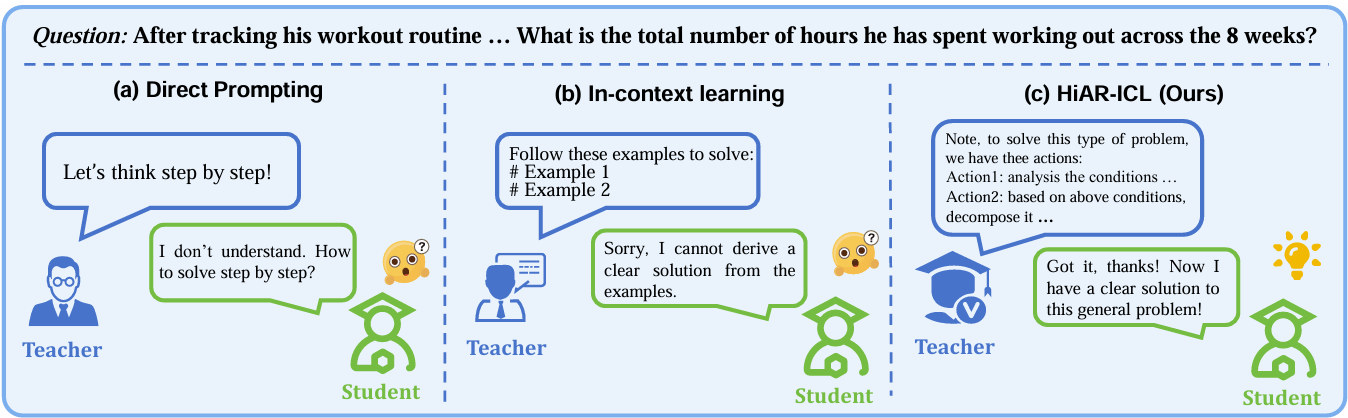
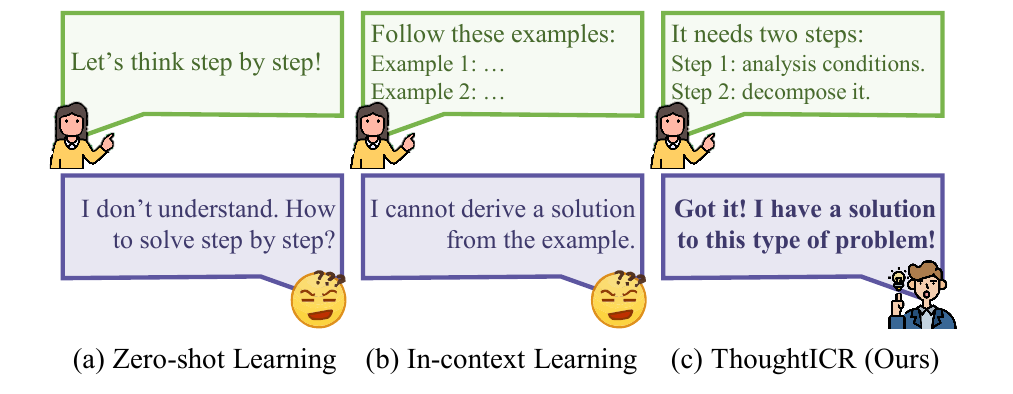
Update README for ACL 2026

diff --git a/README.md b/README.md
@@ -1,134 +1,173 @@
 <h1 align="center">
 <br>
-HiAR-ICL
+ThoughtICR
 </h1>
 
 <p align="center">
-🤗 <a href="https://huggingface.co/papers/2411.18478" target="_blank">[Daily Paper]</a> &nbsp;&nbsp;&nbsp;📃 <a href="https://arxiv.org/pdf/2411.18478" target="_blank">[Arxiv]</a> &nbsp;&nbsp;&nbsp;🏠 <a href="https://jinyangwu.github.io/hiar-icl" target="_blank">[Homepage]</a></p>
+📚 <a href="https://aclanthology.org/2026.acl-long.135/" target="_blank">[ACL 2026]</a> &nbsp;&nbsp;&nbsp;📃 <a href="https://aclanthology.org/2026.acl-long.135.pdf" target="_blank">[Paper]</a> &nbsp;&nbsp;&nbsp;📝 <a href="https://arxiv.org/abs/2411.18478" target="_blank">[arXiv]</a> &nbsp;&nbsp;&nbsp;💻 <a href="https://github.com/jinyangwu/ThoughtICR" target="_blank">[Code]</a>
+</p>
 
-This repository is the official implementation of "[Beyond Examples: High-level Automated Reasoning Paradigm in In-Context Learning via MCTS](https://arxiv.org/abs/2411.18478)".
+This repository is the official implementation of **[Beyond Examples: Towards Automated Thought-level In-Context Reasoning for Large Language Models](https://aclanthology.org/2026.acl-long.135/)**, accepted to **ACL 2026 Long Papers**.
 
-If you have any questions ❓ or are interested in collaboration 🤝, please feel free to contact me at 
+If you have any questions ❓ or are interested in collaboration 🤝, please feel free to contact me at
 [email redacted].
 
-## Contents
-- [Introduction](#Introduction)
-- [Requirements](#Requirements)
-- [Usage](#Usage)
-- [Acknowledgement](#Acknowledgement)
-- [Citation](#Citation)
+## News
 
+- **ACL 2026**: ThoughtICR was accepted to the 64th Annual Meeting of the Association for Computational Linguistics (Long Papers).
+
+## Contents
+
+- [Introduction](#introduction)
+- [Requirements](#requirements)
+- [Usage](#usage)
+- [Acknowledgement](#acknowledgement)
+- [Citation](#citation)
 
 ## Introduction
 
-We introduces **HiAR-ICL**, a **Hi**gh-level **A**utomated **R**easoning paradigm in **ICL** to enhance the complex reasoning capabilities of large language models. Unlike traditional in-context learning, HiAR-ICL shifts the focus from example-based analogical learning to abstract thought patterns.
+We introduce **ThoughtICR**, an automated **Thought**-level **I**n-**C**ontext **R**easoning paradigm for large language models. ThoughtICR rethinks the role of context in in-context learning: instead of asking models to imitate surface-level examples, it provides explicit, reusable, and guidance-oriented thought patterns for complex reasoning.
 
 <p align="center">
   <img src="assets/Figure1.png">
     <br>
-    <em>Figure 1: Schematic comparison between HiAR-ICL and traditional zero-shot and few-shot in-context learning methods using a teacher-student paradigm.</em>
+    <em>Figure 1: Solution comparison. Zero-shot learning relies on generic instructions, in-context learning depends on carefully selected demonstrations, and ThoughtICR provides high-level reasoning patterns for robust problem solving.</em>
 </p>
 
+ThoughtICR first defines five atomic reasoning actions: **System Analysis (SA)**, **One-Step Thought (OST)**, **Chain-of-Thought (CoT)**, **Divide and Conquer (DC)**, and **Self-Reflection and Refinement (SRR)**. Based on these actions, it uses Monte Carlo Tree Search (MCTS) on small-scale seed data to automatically derive high-level thought patterns and encapsulate them as structured thought cards. During inference, ThoughtICR dynamically selects appropriate thought cards according to target problem attributes, guiding the model through adaptive reasoning and verification.
 
-Our approach begins by defining five atomic reasoning actions, upon which we employ Monte Carlo Tree Search to systematically construct high-level reasoning patterns. During inference, HiAR-ICL dynamically selects appropriate reasoning patterns based on problem attributes, providing explicit guidance for the model’s reasoning process.
+Specifically, **ThoughtICR** consists of two main components:
 
-Specifically, **HiAR-ICL** consists of two main components:
-- *MCTS-powered Thought Card Construction*: Leverage MCTS to systematically construct high level thought cards, which effectively guides subsequent problem-solving.
-- *Adaptive Reasoning and Verification*: Dynamically select and execute optimal reasoning patterns based on the problem's cognitive complexity, followed by solution verification.
+- *Thought Card Construction (Offline)*: Leverage MCTS to automatically construct high-level thought cards from seed data, providing explicit guidance for subsequent inference.
+- *Adaptive Reasoning and Verification (Online)*: Dynamically select optimal thought cards by problem attributes, guide model reasoning with the selected patterns, and verify candidate solutions.
 
-The flowchart of our method HiAR-ICL is shown below:
+The overall framework is shown below:
+
 <p align="center">
   <img src="assets/Figure2.png">
     <br>
-    <em>Figure 2: Flowchart of our method HiAR-ICL. This framework consists of two main parts: (1) MCTS-Powered Thought Card Construction; and (2) Adaptive Reasoning and Verification.</em>
+    <em>Figure 2: Flowchart of ThoughtICR. The framework consists of two main parts: (1) Thought Card Construction (Offline); and (2) Adaptive Reasoning and Verification (Online).</em>
 </p>
 
+Extensive experiments across **nine benchmarks** and **seven reasoning domains** show that ThoughtICR improves performance across different model sizes and generalizes effectively from mathematical reasoning to agentic reasoning. With only small-scale seed data, ThoughtICR achieves **80.6%** accuracy on MATH and **62.5%** on AMC, surpassing GPT-4o's **77.2%** and **57.5%**, respectively. Compared with leading test-time scaling methods, ThoughtICR also reduces computational cost by over **10x**.
 
 ## Requirements
 
 We recommend using conda for environment management and executing the code on an A100 80G GPU equipped with CUDA 12.4.
 
-1. Create a Python environment with python 3.10: 
+1. Create a Python environment with python 3.10:
+
 ```
 conda create -n hiaricl python==3.10
 conda activate hiaricl
 ```
 
 2. Install requirements
+
 ```
 pip install --upgrade pip
 pip install -r requirements.txt
 ```
 
-
 ## Usage
->  HiAR-ICL consists of two steps, and our released code implements an efficient parallel tree search. *Note that, to ensure fair comparison with other methods such as rStar, the time cost reported in our paper corresponds to the non-parallelized version, following the same measurement protocol adopted in previous works.*
-In practical applications, however, employing the parallel implementation provided in this repository can lead to substantially improved efficiency.
+
+> ThoughtICR consists of two steps, and our released code implements an efficient parallel tree search. To ensure fair comparison with methods such as rStar, the time cost reported in our paper corresponds to the non-parallelized version, following the same measurement protocol adopted in previous works. In practical applications, however, the parallel implementation provided in this repository can lead to substantially improved efficiency.
 
 ### Step 1: Construct high-level thought cards via MCTS
-Using a small seed dataset, we derive reasoning paths (Phase 1) and distill them into multiple thought cards (Phase 2). These cards serve as prior insights for testing stage, facilitating efficient adaptive reasoning.
+
+Using a small seed dataset, ThoughtICR derives reasoning paths (Phase 1) and distills them into thought cards (Phase 2). These cards serve as prior reasoning guidance for the testing stage, enabling efficient adaptive reasoning.
 
 #### *Phase 1: Acquire reasoning paths for seed data*
-You may choose to use the following command to acquire reasoning paths for each question in seed dataset, which is guided by MCTS. To achieve this, you should first obtain a seed dataset by randomly sampling from a single dataset or by combining multiple datasets, such as in a multi-task system.
+
+You may choose to use the following command to acquire reasoning paths for each question in the seed dataset, guided by MCTS. Before running it, prepare a seed dataset by randomly sampling from a single dataset or by combining multiple datasets, such as in a multi-task system.
+
 ```bash
 bash scripts/generate_paths.sh
 ```
 
 The script `generate_paths.sh` includes several configurable parameters:
+
 - `--dataset_name`: Name of the dataset (e.g. MATH).
 - `--test_json_filename`: Filename for the seed data (default: train_all).
 - `--model_ckpt`: Path to the model checkpoint (e.g. meta-llama/Meta-Llama-3-8B-Instruct).
 - `--num_rollouts`: Number of rollouts (default: 8).
 
->  ⚠️ Make sure to adjust these parameters according to your requirements. Note that if the vllm server fails to start, you can remove 'nohup' and run it in the foreground for debugging errors. Based on our experimental experience, the most likely causes are port errors or incorrect MODEL_NAME paths. Moreover, if the vllm server starts successfully but you encounter connection errors when running the generate file, the port in models/OpenAI_API.py might not match the port used when starting vllm.
-
+> ⚠️ Make sure to adjust these parameters according to your requirements. If the vLLM server fails to start, you can remove `nohup` and run it in the foreground for debugging. Based on our experimental experience, the most likely causes are port errors or incorrect `MODEL_NAME` paths. Moreover, if the vLLM server starts successfully but you encounter connection errors when running the generate file, the port in `models/OpenAI_API.py` might not match the port used when starting vLLM.
 
 #### *Phase 2: Distill paths into thought cards*
+
 After executing MCTS, we obtain a tree structure for each seed dataset question, yielding multiple valid reasoning paths. Subsequently, we distill thought cards based on the proposed metrics, including subquestion count, problem condition complexity, and semantic similarity.
+
 ```bash
 CUDA_VISIBLE_DEVICES="0" python distill.py
 ```
 
-
 ### Step 2: Adaptive Reasoning Pattern Selection
+
 Note that in the previous step implemented in ```distill.py```, we have pre-matched the optimal five cards for each question in the test set. Therefore, during the testing phase, these pre-matched cards can be directly utilized. Alternatively, metric calculation and card matching can also be performed during the MCTS testing phase.
 
 #### *Reasoning*
-Using selected thought cards as templates, our method maintains the benefits of tree-structured reasoning without extensive node expansion. By following the specified action sequences on thought cards (e.g., SA → OST → CoT), the LLM decomposes the reasoning process into a series of sequential steps, generating multiple valid candidate solutions for the test question. Each step corresponds to a distinct atomic action, thus ensuring structured and systematic reasoning throughout the inference process.
+
+Using selected thought cards as templates, ThoughtICR maintains the benefits of tree-structured reasoning without extensive node expansion. By following the specified action sequences on thought cards (e.g., SA → OST → CoT), the LLM decomposes the reasoning process into a series of sequential steps, generating multiple valid candidate solutions for the test question. Each step corresponds to a distinct atomic action, ensuring structured and systematic reasoning throughout inference.
+
 ```bash
 bash scripts/generate_test.sh
 ```
 
 The script `generate_test.sh` includes several configurable parameters:
+
 - `--dataset_name`: Name of the dataset (e.g. MATH).
 - `--test_json_filename`: Filename for the seed data (default: test_all).
 - `--model_ckpt`: Path to the model checkpoint.
 - `--attribute_type`: Type of cognitive complexity (e.g. condition).
 
->  ⚠️ Make sure to adjust these parameters according to your requirements.
+> ⚠️ Make sure to adjust these parameters according to your requirements.
 
 #### *Verification*
-Identifying the most accurate reasoning trajectory among multiple candidate solutions represents a critical challenge. We investigate three verification methods: process-supervision, outcome-supervision, and self-consistency. We use process-supervision+self-consistency verification by default.
+
+Identifying the most accurate reasoning trajectory among multiple candidate solutions represents a critical challenge. We investigate three verification methods: process supervision, outcome supervision, and self-consistency. We use process supervision with self-consistency verification by default.
+
 ```bash
 CUDA_VISIBLE_DEVICES="0" python verification.py --type consistency --score_type product --k 0.95
 ```
+
 You can adjust the corresponding verification methods according to your requirements.
 
-
 ## Acknowledgement
+
 - [rStar](https://github.com/zhentingqi/rStar): We start our codebase from rStar.
 - [RLHFlow-PRM-Mistral-8B](https://huggingface.co/RLHFlow/Llama3.1-8B-PRM-Mistral-Data): We utilize this process reward model by default.
-- [vllm](https://github.com/vllm-project/vllm): We adopt this fantastic framework.
-
+- [vLLM](https://github.com/vllm-project/vllm): We adopt this fantastic framework.
 
 ## Citation
-If you find this repo useful for your research, please consider citing the paper
-```
-@article{wu2024beyond,
-  title={Beyond examples: High-level automated reasoning paradigm in in-context learning via mcts},
-  author={Wu, Jinyang and Feng, Mingkuan and Zhang, Shuai and Che, Feihu and Wen, Zengqi and Tao, Jianhua},
-  journal={arXiv preprint arXiv:2411.18478},
-  year={2024}
+
+If you find this repo useful for your research, please consider citing our paper:
+
+```bibtex
+@inproceedings{wu-etal-2026-beyond-examples,
+    title = "Beyond Examples: Towards Automated Thought-level In-Context Reasoning for Large Language Models",
+    author = "Wu, Jinyang  and
+      Feng, Mingkuan  and
+      Zhang, Shuai  and
+      Che, Feihu  and
+      Wen, Zhengqi  and
+      Liao, Chonghua  and
+      Yang, Ling  and
+      Luo, Haoran  and
+      Lian, Zheng  and
+      Tao, Jianhua",
+    editor = "Liakata, Maria  and
+      Moreira, Viviane P.  and
+      Zhang, Jiajun  and
+      Jurgens, David",
+    booktitle = "Proceedings of the 64th Annual Meeting of the Association for Computational Linguistics (Volume 1: Long Papers)",
+    month = jul,
+    year = "2026",
+    address = "San Diego, California, United States",
+    publisher = "Association for Computational Linguistics",
+    url = "https://aclanthology.org/2026.acl-long.135/",
+    pages = "2955--2995",
+    ISBN = "979-8-89176-390-6"
 }
 ```
 